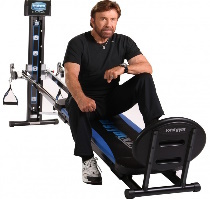
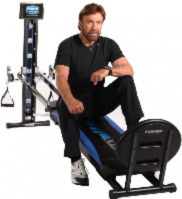
suppression image en trop

diff --git a/index.html b/index.html
@@ -6,6 +6,7 @@
     <meta name="viewport" content="width=device-width, initial-scale=1.0" />
     <link rel="stylesheet" type="text/css" href="reset.css" />
     <link rel="stylesheet" type="text/css" href="style.css" />
+    <link rel="stylesheet" type="text/css" href="stylePage3.css" />
     <link rel="preconnect" href="https://fonts.googleapis.com" />
     <link rel="preconnect" href="https://fonts.gstatic.com" crossorigin />
     <link
@@ -186,7 +187,7 @@
           <div class="fondTransp2">
             <h1>Publicites</h1>
             <img
-              src="ressources/images/publicitesRaw.jpg"
+              src="ressources/images/publicites.jpg"
               alt="Chuck Norris et les publicités"
               class="slideImg2"
             />
